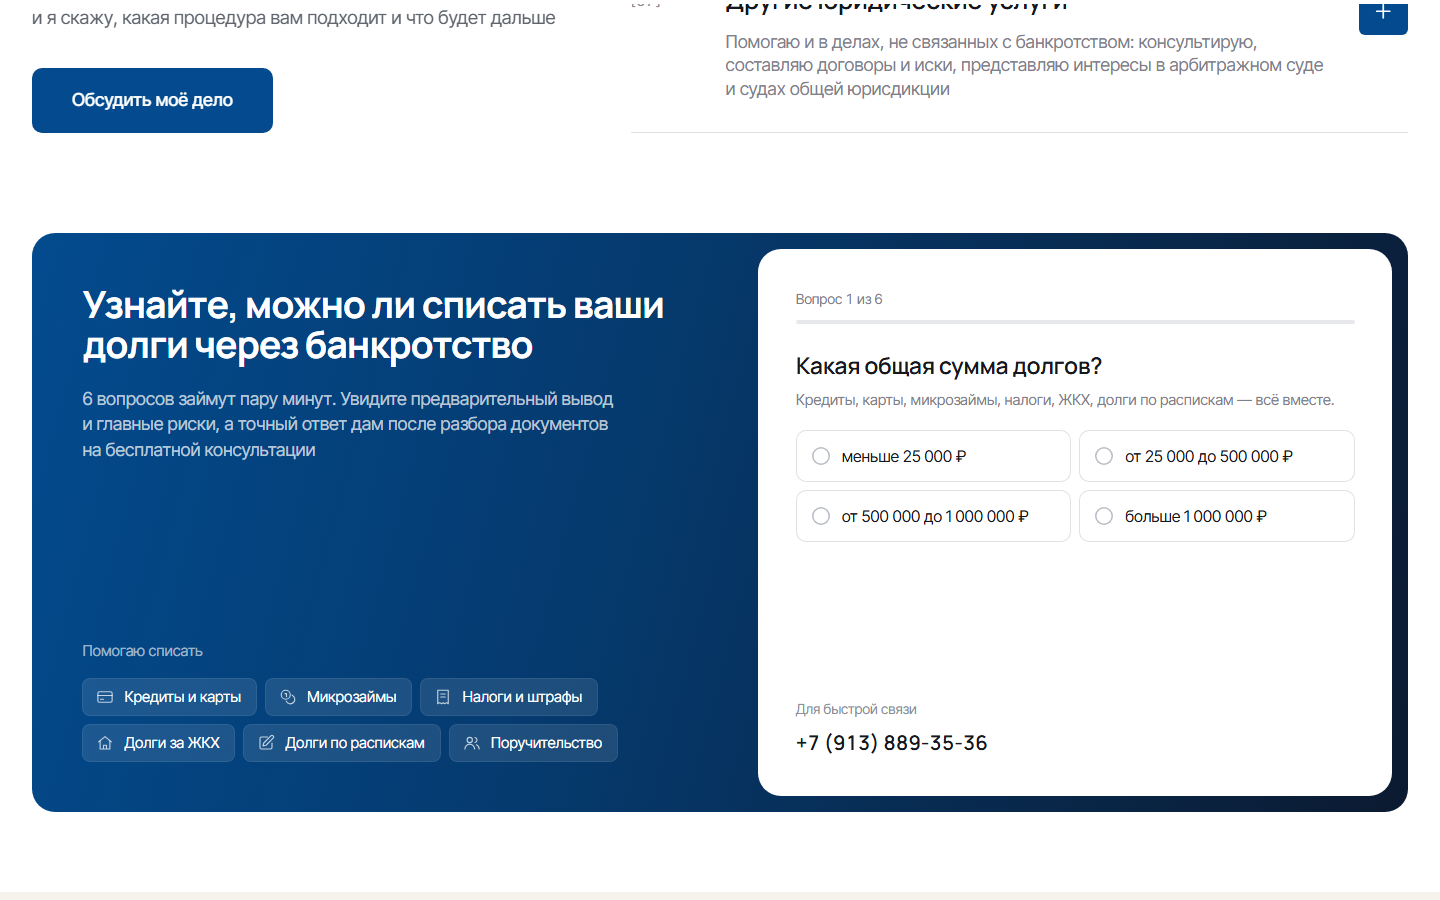
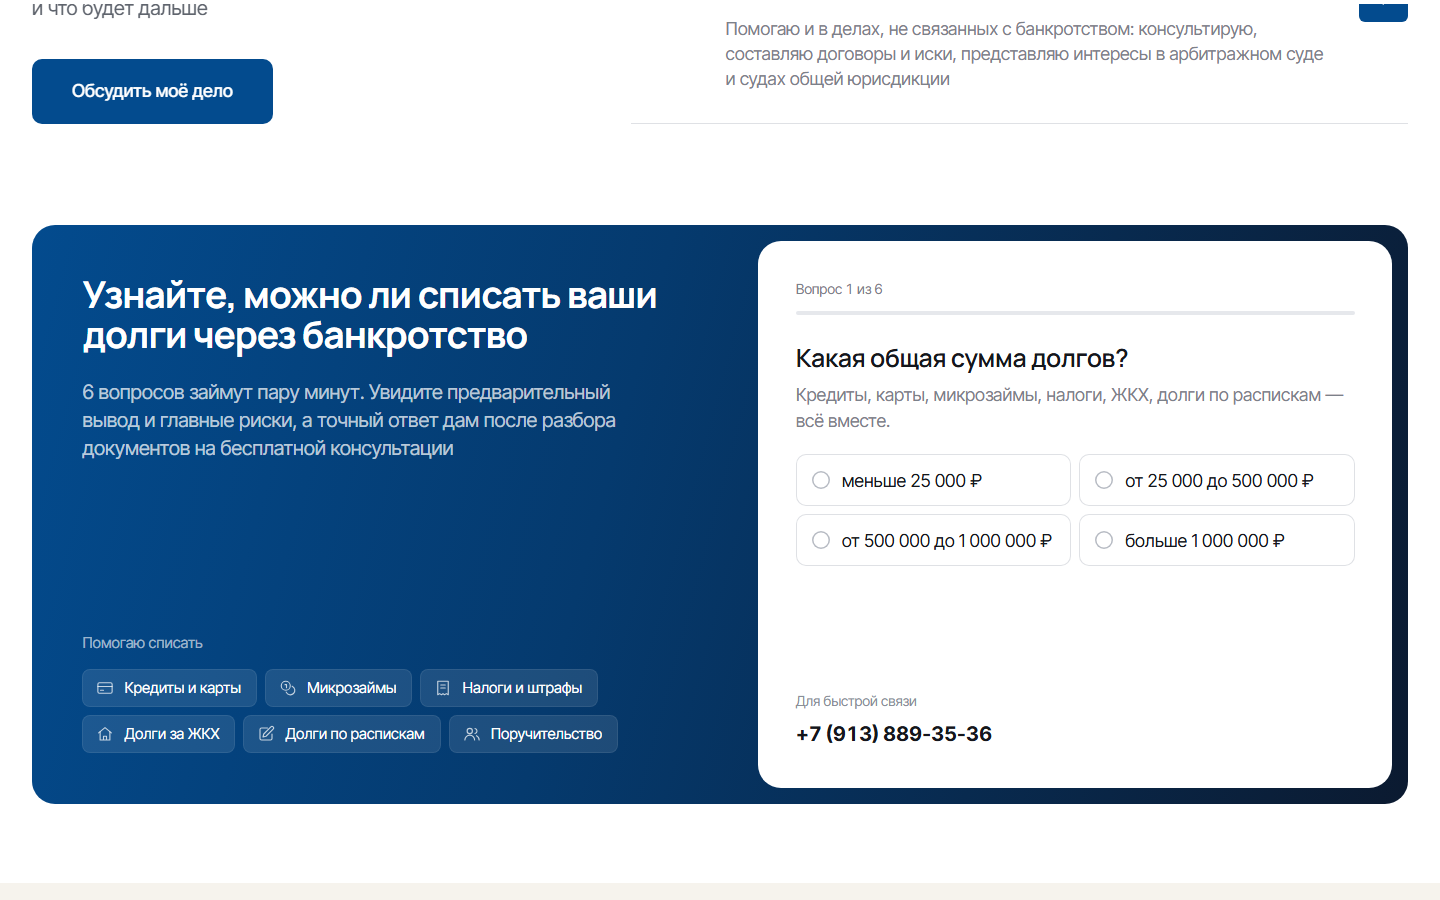
Единая шкала шрифтов: H1 55/34, H2 37/28, карточки 25/22, подзаголовки 20/18, текст 18/16; номер в квизе Inter Tight

diff --git a/src/styles/global.css b/src/styles/global.css
@@ -38,6 +38,20 @@
   --ease-out: cubic-bezier(0.22, 1, 0.36, 1);
 }
 
+/*
+ * Шкала шрифтов (утверждена дизайнером 18.11.2026). Телефон 390 px → десктоп 1440 px,
+ * между ними размер растёт плавно, шире 1440 — десктопное значение.
+ *   H1 34 → 55 · H2 28 → 37 · заголовок карточки 22 → 25 · подзаголовок под H2 18 → 20 · текст 16 → 18
+ * Цифры-акценты, ярлыки, кнопки и подписи в шкалу не входят.
+ */
+:root {
+  --fs-h1: clamp(2.125rem, calc(2.125rem + (100vw - 24.375rem) * 0.02), 3.4375rem);
+  --fs-h2: clamp(1.75rem, calc(1.75rem + (100vw - 24.375rem) * 0.008571), 2.3125rem);
+  --fs-h3: clamp(1.375rem, calc(1.375rem + (100vw - 24.375rem) * 0.002857), 1.5625rem);
+  --fs-lead: clamp(1.125rem, calc(1.125rem + (100vw - 24.375rem) * 0.001905), 1.25rem);
+  --fs-body: clamp(1rem, calc(1rem + (100vw - 24.375rem) * 0.001905), 1.125rem);
+}
+
 @utility tnum {
   font-variant-numeric: tabular-nums;
 }
@@ -49,17 +63,17 @@
   }
   body {
     @apply bg-paper text-ink font-sans antialiased;
-    font-size: 1.0625rem;
-    line-height: 1.65;
+    font-size: var(--fs-body);
+    line-height: 1.6;
   }
   h1, h2, h3 {
     @apply font-serif text-ink;
     font-weight: 600;
     text-wrap: balance;
   }
-  h1 { font-size: clamp(2.25rem, 5vw, 3.75rem); line-height: 1.06; letter-spacing: -0.02em; }
-  h2 { font-size: clamp(1.625rem, 3vw, 2.25rem); line-height: 1.15; letter-spacing: -0.01em; }
-  h3 { font-size: 1.25rem; line-height: 1.3; }
+  h1 { font-size: var(--fs-h1); line-height: 1.06; letter-spacing: -0.02em; }
+  h2 { font-size: var(--fs-h2); line-height: 1.12; letter-spacing: -0.015em; }
+  h3 { font-size: var(--fs-h3); line-height: 1.2; }
   p { text-wrap: pretty; }
   a { @apply underline decoration-1 underline-offset-[3px]; text-decoration-color: color-mix(in srgb, currentColor 35%, transparent); transition: text-decoration-color 150ms var(--ease-out), color 150ms var(--ease-out); }
   a:hover { text-decoration-color: currentColor; }
@@ -76,7 +90,7 @@
   .prose-legal > ul { @apply list-disc pl-6 space-y-2; }
   .prose-legal > ol { @apply list-decimal pl-6 space-y-2; }
   .prose-legal > ul > li::marker, .prose-legal > ol > li::marker { color: var(--color-muted); }
-  .lead-answer { @apply text-[1.1875rem] leading-[1.6] text-ink-2; }
+  .lead-answer { @apply leading-[1.5] text-ink-2; font-size: var(--fs-lead); }
 
   .btn {
     @apply inline-flex items-center justify-center gap-2 px-5 font-medium no-underline;

diff --git a/seo/decisions.md b/seo/decisions.md
@@ -28,3 +28,4 @@
 | 18.11.2026 | Ссылка old.bankrot.fedresurs.ru не открывается ни у дизайнера, ни у нас — кнопка «Проверить на Федресурсе» и sameAs убраны до получения рабочей ссылки; номер 207 и ИНН остаются | Битая ссылка хуже, чем её отсутствие | Оставить старую ссылку | высокая |
 | 18.11.2026 | Квиз на главной после «Услуг» — новый блок HomeQuiz по референсу дизайнера: синий градиент, виды долгов чипами, белая карточка с вопросами по одному, вывод и передача ответов в заявку. Логика вынесена в src/data/quiz.ts (общая со страницей банкротства граждан) | Запрос дизайнера | Старый квиз списком из 6 вопросов | высокая |
 | 18.11.2026 | Вторая почта arbitomsk@gmail.com — в подвал и на «Контакты» (основная для политики и разметки остаётся antonece@mail.ru). Телефон: подзаголовки 18 px, плашки квиза сеткой 2 колонки, карточки «Для кого» 90% ширины | Просьбы дизайнера | — | высокая |
+| 18.11.2026 | Шкала шрифтов от дизайнера: H1 55/34, H2 37/28, заголовок карточки 25/22, подзаголовок под H2 20/18, текст 18/16 (десктоп/телефон). Токены --fs-h1…--fs-body в global.css, плавно между 390 и 1440 px; все блоки главной и глобальные h1–h3/body переведены на них, разовые мобильные правки удалены. Номер в квизе — Inter Tight 700 | Решение дизайнера: придерживаться системы | Разовые размеры в каждом блоке | высокая |
